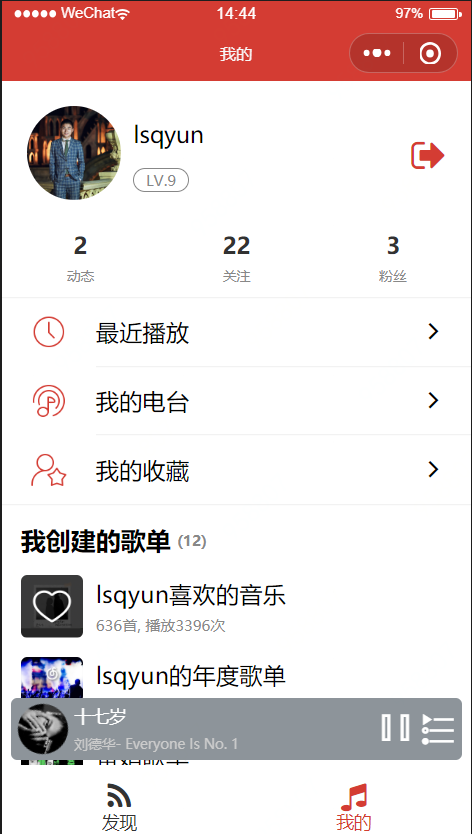
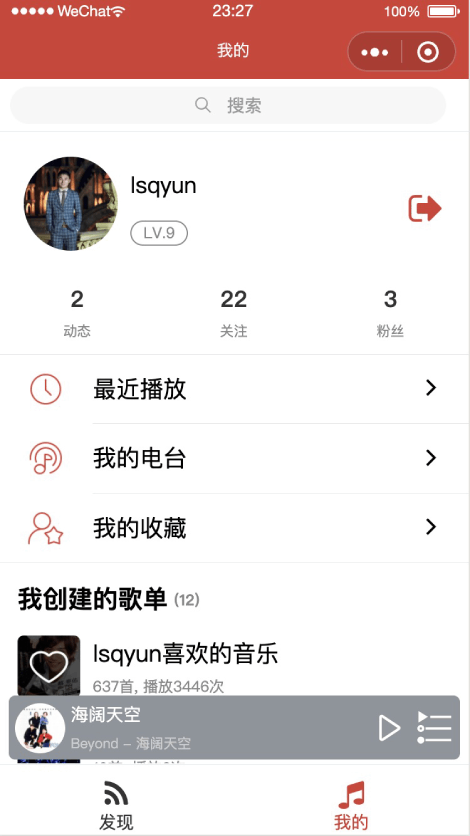
feat(doc): 更新readme

diff --git a/README.md b/README.md
@@ -86,8 +86,16 @@ npm run dev:weapp
 ### todo
 
 - 复用的评论列表
-- 搜索功能
+- 搜索功能 *已完成部分功能*
 - `react-hooks`重构部分功能
+
+### 最近更新
+
+- 加入搜索功能
+
+<div align="center">
+  <image width="340" src="http://img.lsqy.tech/hexo/%E6%90%9C%E7%B4%A2.png"/>
+</div>
 
 ### 效果图预览
 
